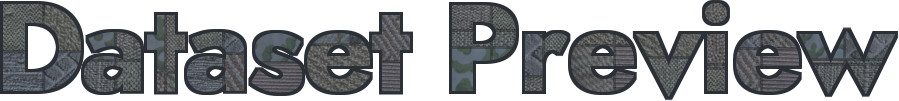
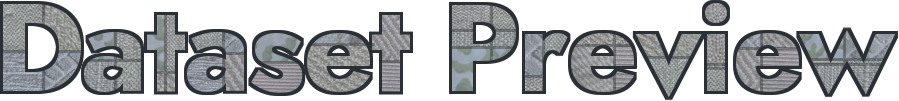
Page: section titles, candidate D

diff --git a/docs/index.html b/docs/index.html
@@ -159,7 +159,7 @@
 
 <!-- ============================  OVERVIEW (CAPTURE VIDEO + ABSTRACT)  ============================ -->
 <section id="abstract" class="page-section">
-    <h3 class="cloth-title"><img src="images/titles/overview.png?v=2" alt="" width="539" height="99" decoding="async"><span class="sr-only">Overview</span></h3>
+    <h3 class="cloth-title"><img src="images/titles/overview.png?v=3" alt="" width="539" height="99" decoding="async"><span class="sr-only">Overview</span></h3>
     <div class="section-rule"></div>
 
     <!-- Abstract and contributions: from the paper
@@ -225,7 +225,7 @@
 
 <!-- ============================  METHOD  ============================ -->
 <section id="method" class="page-section">
-    <h3 class="cloth-title"><img src="images/titles/method.png?v=2" alt="" width="420" height="102" decoding="async"><span class="sr-only">Method</span></h3>
+    <h3 class="cloth-title"><img src="images/titles/method.png?v=3" alt="" width="420" height="102" decoding="async"><span class="sr-only">Method</span></h3>
     <div class="section-rule"></div>
 
     <!-- Method video (method_light_v5, cut before the room beat: it ends on the flat 5x2 grid
@@ -298,7 +298,7 @@
      regenerated from the parsed tables, so edit the tool (or the tables), never the numbers.
      Styles: css/results.css. -->
 <section id="main-viz" class="page-section">
-    <h3 class="cloth-title"><img src="images/titles/results.png?v=2" alt="" width="389" height="102" decoding="async"><span class="sr-only">Results</span></h3>
+    <h3 class="cloth-title"><img src="images/titles/results.png?v=3" alt="" width="389" height="102" decoding="async"><span class="sr-only">Results</span></h3>
     <div class="section-rule"></div>
     <h4 class="res-subtitle" id="results-datasets">Compared with existing material datasets</h4>
     <div class="res-card res-table-card">
@@ -466,7 +466,7 @@
 
 <!-- ============================  DATASET PREVIEW  ============================ -->
 <section id="preview" class="page-section">
-    <h3 class="cloth-title"><img src="images/titles/dataset-preview.png?v=2" alt="" width="897" height="99" decoding="async"><span class="sr-only">Dataset Preview</span></h3>
+    <h3 class="cloth-title"><img src="images/titles/dataset-preview.png?v=3" alt="" width="897" height="99" decoding="async"><span class="sr-only">Dataset Preview</span></h3>
     <div class="section-rule"></div>
     <p class="lead-text" style="text-align:center;color:var(--muted);">
         The dataset is split into a <b>train</b> set and a <b>test</b> set
@@ -528,7 +528,7 @@
 
 <!-- ============================  CITATION  ============================ -->
 <section id="citation" class="page-section">
-    <h3 class="cloth-title"><img src="images/titles/citation.png?v=2" alt="" width="425" height="94" decoding="async"><span class="sr-only">Citation</span></h3>
+    <h3 class="cloth-title"><img src="images/titles/citation.png?v=3" alt="" width="425" height="94" decoding="async"><span class="sr-only">Citation</span></h3>
     <div class="section-rule"></div>
     <pre class="citation-block">@misc{li2026robocloth,
   title  = {RoboCloth: A Large-Scale Real Cloth Material Dataset for Neural Reflectance Reconstruction},

diff --git a/docs/tools/title/section_titles.py b/docs/tools/title/section_titles.py
@@ -29,7 +29,7 @@ def slug(t):
     return re.sub(r"[^a-z0-9]+", "-", t.lower()).strip("-")
 
 
-TONE_MEAN, TONE_STD = 92.0, 14.0          # every patch is graded to this sRGB band: the word reads as
+TONE_MEAN, TONE_STD = 150.0, 16.0    # candidate D (user's pick): lighter patches, dark outline carries the shape          # every patch is graded to this sRGB band: the word reads as
                                             # one dark shape, the cloth shows as texture, not as colour
 
 
